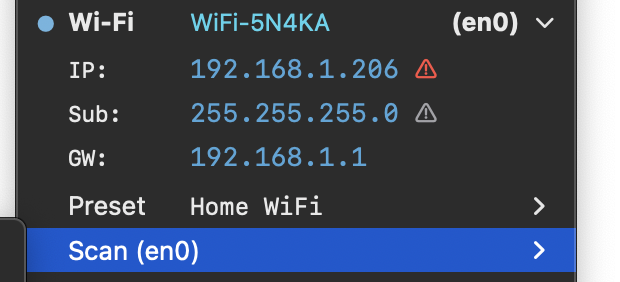
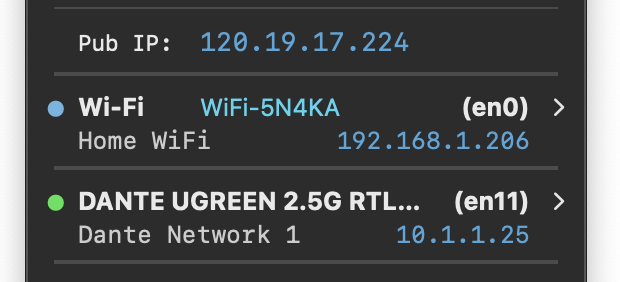
Fix CTA flex regression on free-product articles, clean Quicker IP tile shot
- Five article CTAs that were left as plain h3/p/link had their children laid out side by side once .article-cta became flex; each now has the same .cta-body wrapper
- qlab-script-cues-spotify regained the BSK Spotify module link the rewrite dropped, which its own copy still refers to
- Stimulus guide loses the green buy button; App Store products use a badge and a note, not commerce chrome
- Guide buy notes use the site's middot convention and stay ASCII; cta.linkText is read again instead of being dead data
- Tile and link-preview shot re-cropped from pro-3, a clean collapsed 2.6 menu with per-adapter IPs and no submenu artifact
- Stylesheet cache buster to 20260804b

diff --git a/articles/reaper-live-show-recording/index.html b/articles/reaper-live-show-recording/index.html
@@ -11,7 +11,7 @@
     <meta property="og:title" content="How to record a live show in REAPER">
     <meta property="og:description" content="Multitrack live recording in REAPER: patching, naming, safe transport, markers, and redundancy.">
     <meta property="og:image" content="https://bskapps.com/images/bsk-logo.png">
-    <link rel="stylesheet" href="/css/site.css?v=20260804">
+    <link rel="stylesheet" href="/css/site.css?v=20260804b">
 </head>
 <body>
     <div class="container">
@@ -51,9 +51,11 @@
             <p>Line check with meters visible, one screen of meter bridge beats six screens of arrange view. Confirm every channel moves. Arm everything, check the record path one last time, punch in before the walk-in music ends, and then leave it alone. The recording rig is not the place to be creative mid-show.</p>
 
             <div class="article-cta">
-                <h3>The whole setup, ready to install</h3>
-                <p>Everything in this article - patched track templates up to 128 inputs, name import, safe transport, markers and meter views - is packaged as a free REAPER setup you can install in a few minutes.</p>
-                <a class="cta-link" href="/tools/reaper/">Free REAPER live recording setup &rarr;</a>
+                <div class="cta-body">
+                    <h3>The whole setup, ready to install</h3>
+                    <p>Everything in this article - patched track templates up to 128 inputs, name import, safe transport, markers and meter views - is packaged as a free REAPER setup you can install in a few minutes.</p>
+                    <a class="cta-link" href="/tools/reaper/">Free REAPER live recording setup &rarr;</a>
+                </div>
             </div>
         </article>
 

diff --git a/articles/reaper-virtual-soundcheck/index.html b/articles/reaper-virtual-soundcheck/index.html
@@ -11,7 +11,7 @@
     <meta property="og:title" content="Virtual soundcheck in REAPER">
     <meta property="og:description" content="Record the band multitrack, play it back into the console, mix without the band.">
     <meta property="og:image" content="https://bskapps.com/images/bsk-logo.png">
-    <link rel="stylesheet" href="/css/site.css?v=20260804">
+    <link rel="stylesheet" href="/css/site.css?v=20260804b">
 </head>
 <body>
     <div class="container">
@@ -53,9 +53,11 @@
             <p>The rig that does all this is the same rig that records the show. Build it once, patched both ways, and every gig you record becomes rehearsal material for the next one.</p>
 
             <div class="article-cta">
-                <h3>A setup already patched both ways</h3>
-                <p>Our free REAPER live recording setup includes track templates patched 1-to-1 in and out for up to 128 channels, plus the scripts and toolbars around them. Install it and virtual soundcheck is a switch flip, not a project.</p>
-                <a class="cta-link" href="/tools/reaper/">Free REAPER live recording setup &rarr;</a>
+                <div class="cta-body">
+                    <h3>A setup already patched both ways</h3>
+                    <p>Our free REAPER live recording setup includes track templates patched 1-to-1 in and out for up to 128 channels, plus the scripts and toolbars around them. Install it and virtual soundcheck is a switch flip, not a project.</p>
+                    <a class="cta-link" href="/tools/reaper/">Free REAPER live recording setup &rarr;</a>
+                </div>
             </div>
         </article>
 

diff --git a/articles/reaper-lua-cue-workflows/index.html b/articles/reaper-lua-cue-workflows/index.html
@@ -11,7 +11,7 @@
     <meta property="og:title" content="REAPER Lua scripting for live recording">
     <meta property="og:description" content="A short intro to REAPER Lua for live multitrack workflows.">
     <meta property="og:image" content="https://bskapps.com/images/bsk-logo.png">
-    <link rel="stylesheet" href="/css/site.css?v=20260804">
+    <link rel="stylesheet" href="/css/site.css?v=20260804b">
 </head>
 <body>
     <div class="container">
@@ -69,9 +69,11 @@ reaper.UpdateArrange()</code></pre>
             <p>Most of what a live recording engineer does before hitting record is deterministic, and anything deterministic can be a script. Don't try to automate everything, just stop doing the boring stuff by hand.</p>
         
             <div class="article-cta">
-                <h3>Working scripts to start from</h3>
-                <p>We have published a small set of REAPER Lua scripts for transport control, hardware patching, and live-recording prep. Free, on the tools page.</p>
-                <a class="cta-link" href="/tools">Free REAPER Lua scripts &rarr;</a>
+                <div class="cta-body">
+                    <h3>Working scripts to start from</h3>
+                    <p>We have published a small set of REAPER Lua scripts for transport control, hardware patching, and live-recording prep. Free, on the tools page.</p>
+                    <a class="cta-link" href="/tools">Free REAPER Lua scripts &rarr;</a>
+                </div>
             </div>
         </article>
 

diff --git a/articles/buttonmaker-guide/index.html b/articles/buttonmaker-guide/index.html
@@ -11,7 +11,7 @@
     <meta property="og:title" content="How to make Stream Deck, Companion and REAPER buttons">
     <meta property="og:description" content="A free browser button maker for Stream Deck, Bitfocus Companion and REAPER toolbars. Design a button and export it in a few clicks.">
     <meta property="og:image" content="https://bskapps.com/images/buttonmaker-og.png">
-    <link rel="stylesheet" href="/css/site.css?v=20260804">
+    <link rel="stylesheet" href="/css/site.css?v=20260804b">
 </head>
 <body>
     <div class="container">
@@ -50,9 +50,11 @@
             <p>That is the whole loop: design, export, drop it in. Everything stays in the browser, and it is free to use.</p>
 
             <div class="article-cta">
-                <h3>BSK Button Maker</h3>
-                <p>Design buttons for Bitfocus Companion, Stream Deck and REAPER toolbars in your browser. 200,000+ icons, presets and one-click sets. Free.</p>
-                <a class="cta-link" href="/buttonmaker">Open Button Maker &rarr;</a>
+                <div class="cta-body">
+                    <h3>BSK Button Maker</h3>
+                    <p>Design buttons for Bitfocus Companion, Stream Deck and REAPER toolbars in your browser. 200,000+ icons, presets and one-click sets. Free.</p>
+                    <a class="cta-link" href="/buttonmaker">Open Button Maker &rarr;</a>
+                </div>
             </div>
         </article>
 

diff --git a/articles/spotify-companion-guide/index.html b/articles/spotify-companion-guide/index.html
@@ -11,7 +11,7 @@
     <meta property="og:title" content="How to control Spotify from Bitfocus Companion">
     <meta property="og:description" content="A free Bitfocus Companion module for Spotify: transport, volume fades, cue points, playlists, album art and now-playing variables, with a macOS offline fallback.">
     <meta property="og:image" content="https://bskapps.com/images/bsk-logo.png">
-    <link rel="stylesheet" href="/css/site.css?v=20260804">
+    <link rel="stylesheet" href="/css/site.css?v=20260804b">
 </head>
 <body>
     <div class="container">
@@ -56,9 +56,11 @@
             <p>It is free and MIT licensed, with the source on GitHub.</p>
 
             <div class="article-cta">
-                <h3>BSK Spotify for Companion</h3>
-                <p>Full Spotify control inside Bitfocus Companion: transport, fades, cue points, playlists, album art and 30 variables. Free.</p>
-                <a class="cta-link" href="/tools/companion">Get the module &rarr;</a>
+                <div class="cta-body">
+                    <h3>BSK Spotify for Companion</h3>
+                    <p>Full Spotify control inside Bitfocus Companion: transport, fades, cue points, playlists, album art and 30 variables. Free.</p>
+                    <a class="cta-link" href="/tools/companion">Get the module &rarr;</a>
+                </div>
             </div>
         </article>
 

diff --git a/articles/qlab-script-cues-spotify/index.html b/articles/qlab-script-cues-spotify/index.html
@@ -11,7 +11,7 @@
     <meta property="og:title" content="QLab script cues for Spotify control">
     <meta property="og:description" content="Use QLab script cues to drive Spotify on macOS via AppleScript: play a specific track, pause cleanly, fade volume in and out, and where the limits are.">
     <meta property="og:image" content="https://bskapps.com/images/bsk-logo.png">
-    <link rel="stylesheet" href="/css/site.css?v=20260804">
+    <link rel="stylesheet" href="/css/site.css?v=20260804b">
 </head>
 <body>
     <div class="container">
@@ -103,6 +103,7 @@ end tell</code></pre>
                     <div class="cta-actions">
                         <a class="buy-btn" href="https://bskapps.lemonsqueezy.com/checkout/buy/efb96677-ac6d-43c1-8697-e465e62d1d00?dark=1&desc=0&media=0&checkout%5Bcustom%5D%5Bsrc%5D=article-qlab-script-cues-spotify" aria-label="Buy Lab Assistant">Buy Lab Assistant</a>
                         <a class="cta-link" href="/labassistant">See what it does &rarr;</a>
+                        <a class="cta-link" href="https://github.com/BSKapps/companion-module-bsk-spotify">BSK Spotify module &rarr;</a>
                     </div>
                     <span class="cta-note">One-time purchase &middot; 2 activations</span>
                 </div>

diff --git a/_layouts/guide.html b/_layouts/guide.html
@@ -13,7 +13,7 @@
     <meta property="og:description" content="{{ g.web.ogDescription }}">
     <meta property="og:image" content="{{ g.web.ogImage }}">
     <meta property="og:url" content="{{ g.web.canonical }}">
-    <link rel="stylesheet" href="/css/site.css?v=20260804">
+    <link rel="stylesheet" href="/css/site.css?v=20260804b">
 </head>
 <body>
     <div class="container">
@@ -57,7 +57,7 @@
                         {%- if g.cta.buyHref %}
                         <a class="buy-btn" href="{{ g.cta.buyHref }}" aria-label="{{ g.cta.buyText }}">{{ g.cta.buyText }}</a>
                         {%- endif %}
-                        <a class="cta-link" href="{{ g.cta.href }}">See what it does &rarr;</a>
+                        <a class="cta-link" href="{{ g.cta.href }}">{{ g.cta.linkText | default: "See what it does" }} &rarr;</a>
                     </div>
                     {%- if g.cta.buyNote %}
                     <span class="cta-note">{{ g.cta.buyNote }}</span>

diff --git a/articles/mac-dns-for-av/index.html b/articles/mac-dns-for-av/index.html
@@ -11,7 +11,7 @@
     <meta property="og:title" content="DNS on a Mac: how it works and how to set it per adapter">
     <meta property="og:description" content="How macOS decides which DNS servers to use with multiple adapters, why a show LAN should have no DNS at all, what Bonjour .local names really are, and how to fix stale lookups.">
     <meta property="og:image" content="https://bskapps.com/images/bsk-logo.png">
-    <link rel="stylesheet" href="/css/site.css?v=20260804">
+    <link rel="stylesheet" href="/css/site.css?v=20260804b">
 </head>
 <body>
     <div class="container">

diff --git a/articles/qlab-audio-formats/index.html b/articles/qlab-audio-formats/index.html
@@ -11,7 +11,7 @@
     <meta property="og:title" content="Audio file formats for QLab: what to use and what to avoid">
     <meta property="og:description" content="Which audio formats play back reliably in QLab, why VBR MP3s cause trouble, what sample rate to standardise on, and how to convert a whole show's files in one pass.">
     <meta property="og:image" content="https://bskapps.com/images/bsk-logo.png">
-    <link rel="stylesheet" href="/css/site.css?v=20260804">
+    <link rel="stylesheet" href="/css/site.css?v=20260804b">
 </head>
 <body>
     <div class="container">

diff --git a/articles/rew-house-curve/index.html b/articles/rew-house-curve/index.html
@@ -11,7 +11,7 @@
     <meta property="og:title" content="House curves in REW: why flat sounds thin and what to use instead">
     <meta property="og:description" content="What a house curve does in REW, why correcting a room to flat usually disappoints, common starting shapes like the Harman curve, and how to make your own.">
     <meta property="og:image" content="https://bskapps.com/images/bsk-logo.png">
-    <link rel="stylesheet" href="/css/site.css?v=20260804">
+    <link rel="stylesheet" href="/css/site.css?v=20260804b">
 </head>
 <body>
     <div class="container">

diff --git a/articles/smaart-target-curves/index.html b/articles/smaart-target-curves/index.html
@@ -11,7 +11,7 @@
     <meta property="og:title" content="Target curves in Smaart: what they are and how to use one">
     <meta property="og:description" content="Why flat is not the goal when tuning a PA, what a Smaart target curve actually represents, common starting shapes, and how to build one you can reuse across rigs.">
     <meta property="og:image" content="https://bskapps.com/images/bsk-logo.png">
-    <link rel="stylesheet" href="/css/site.css?v=20260804">
+    <link rel="stylesheet" href="/css/site.css?v=20260804b">
 </head>
 <body>
     <div class="container">

diff --git a/articles/ipv6-on-a-mac/index.html b/articles/ipv6-on-a-mac/index.html
@@ -11,7 +11,7 @@
     <meta property="og:title" content="IPv6 on a Mac: what it's doing and when to care">
     <meta property="og:description" content="What IPv6 is quietly doing on every Mac, why AV networks still run IPv4, whether turning IPv6 off helps, and how an IPv6-only adapter can actually be useful on show rigs.">
     <meta property="og:image" content="https://bskapps.com/images/bsk-logo.png">
-    <link rel="stylesheet" href="/css/site.css?v=20260804">
+    <link rel="stylesheet" href="/css/site.css?v=20260804b">
 </head>
 <body>
     <div class="container">
